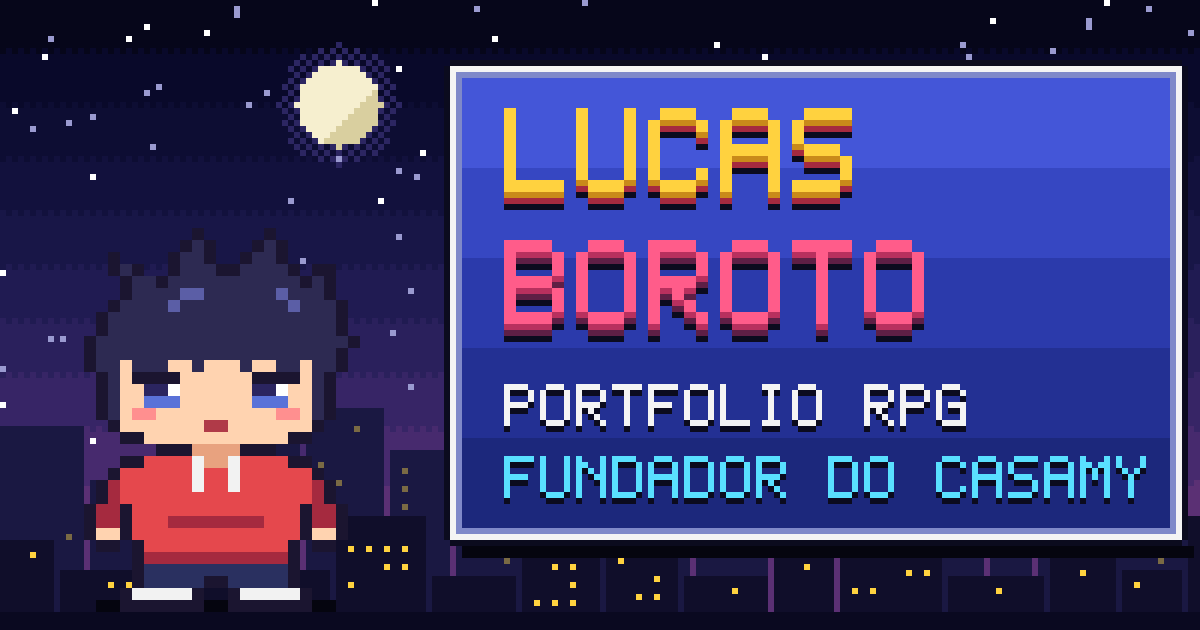
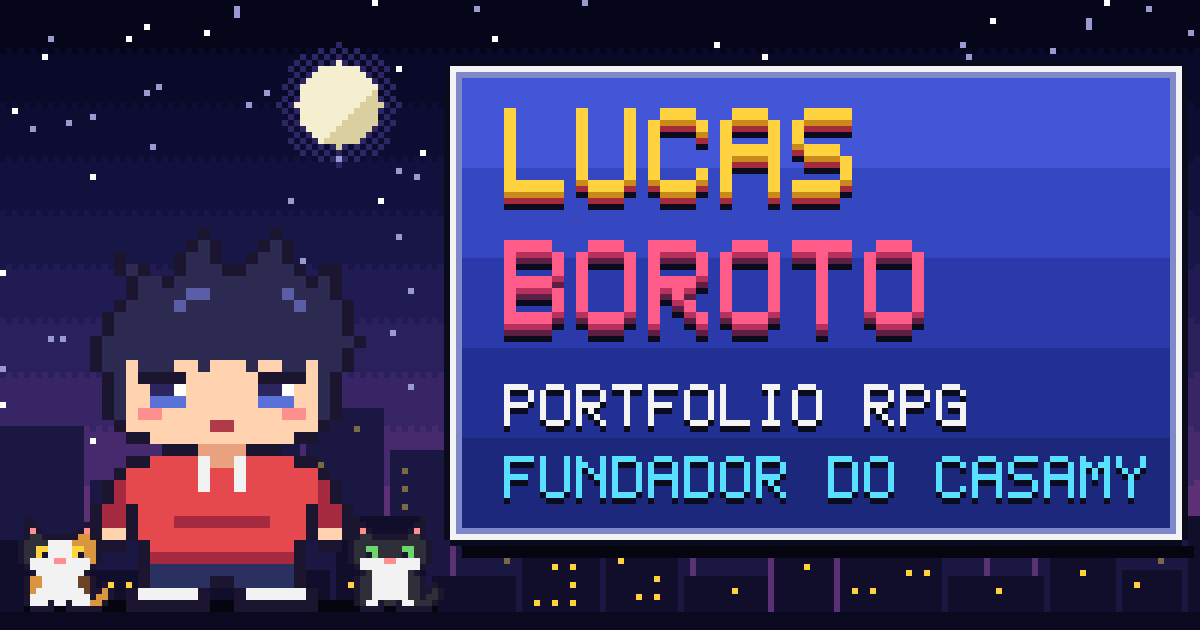
Imagem de compartilhamento com a Lili e o Todinho
Os dois sentados ao lado do Lucas, olhando para ele. O link da imagem
ganhou ?v=2 para LinkedIn e X buscarem a versão nova.

diff --git a/scripts/og-image.ts b/scripts/og-image.ts
@@ -1,7 +1,7 @@
 // Gera public/og.png (1200x630, prévia de link no LinkedIn/X) e public/favicon.svg a partir dos mesmos sprites do site.
 // Tudo é desenhado numa grade de 200x105 "pixels" e ampliado 6x.
 import { mkdirSync, writeFileSync } from 'node:fs'
-import { HERO, PALETTE, PORTRAIT, hexToRGB, type Sprite } from '../src/sprites.ts'
+import { HERO, LILI, PALETTE, PORTRAIT, TODINHO, hexToRGB, type Sprite } from '../src/sprites.ts'
 import { encodePNG } from './png.ts'
 
 const W = 200
@@ -62,9 +62,11 @@ function sprite(s: Sprite, ox: number, oy: number, k = 1) {
   )
 }
 
-// Personagem com sombra no chão
-rect(16, H - 5, 40, 2, '#05050f')
-sprite(HERO, 12, H - 3 - 64, 2)
+// Lucas com a Lili (esquerda) e o Todinho (direita), sombra no chão
+rect(4, H - 5, 69, 2, '#05050f')
+sprite(HERO, 13, H - 3 - 64, 2)
+sprite(LILI, 3, H - 3 - 16)
+sprite(TODINHO, 58, H - 3 - 16)
 
 // Janela de JRPG atrás do texto
 const [wx0, wy0, wx1, wy1] = [74, 10, 197, 90]

diff --git a/index.html b/index.html
@@ -9,7 +9,7 @@
     <meta property="og:type" content="website" />
     <meta property="og:title" content="Lucas Boroto · Portfólio RPG" />
     <meta property="og:description" content="Aperte start: meu portfólio virou um menu de JRPG em pixel art." />
-    <meta property="og:image" content="og.png" />
+    <meta property="og:image" content="og.png?v=2" />
     <meta property="og:image:width" content="1200" />
     <meta property="og:image:height" content="630" />
     <meta name="twitter:card" content="summary_large_image" />

diff --git a/vite.config.ts b/vite.config.ts
@@ -8,7 +8,7 @@ const absoluteShareImage = (): Plugin => ({
   transformIndexHtml: (html) =>
     site
       ? html
-          .replace('content="og.png"', `content="${site}/og.png"`)
+          .replace('content="og.png', `content="${site}/og.png`)
           .replace('<meta property="og:type"', `<meta property="og:url" content="${site}/" />\n    <meta property="og:type"`)
       : html,
 })
